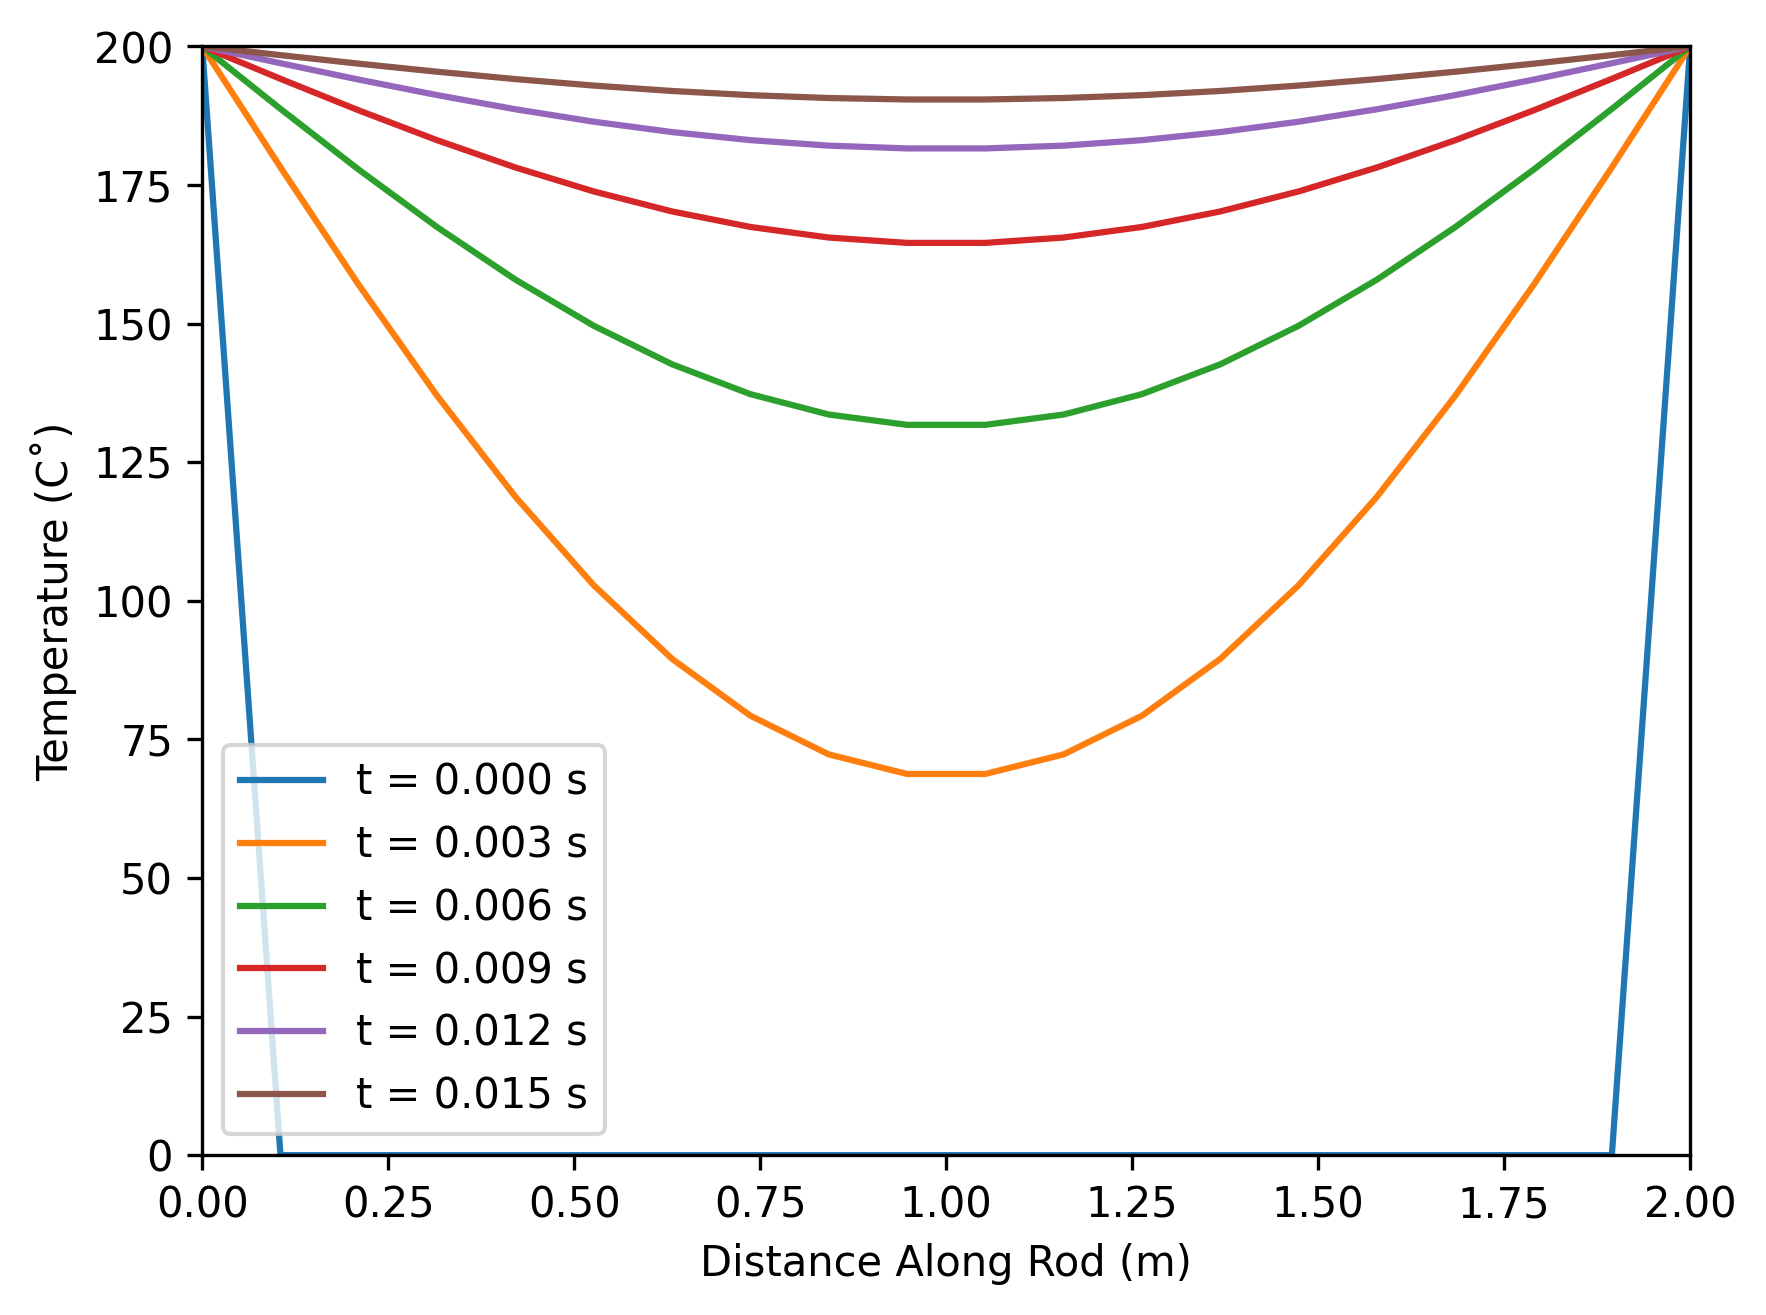
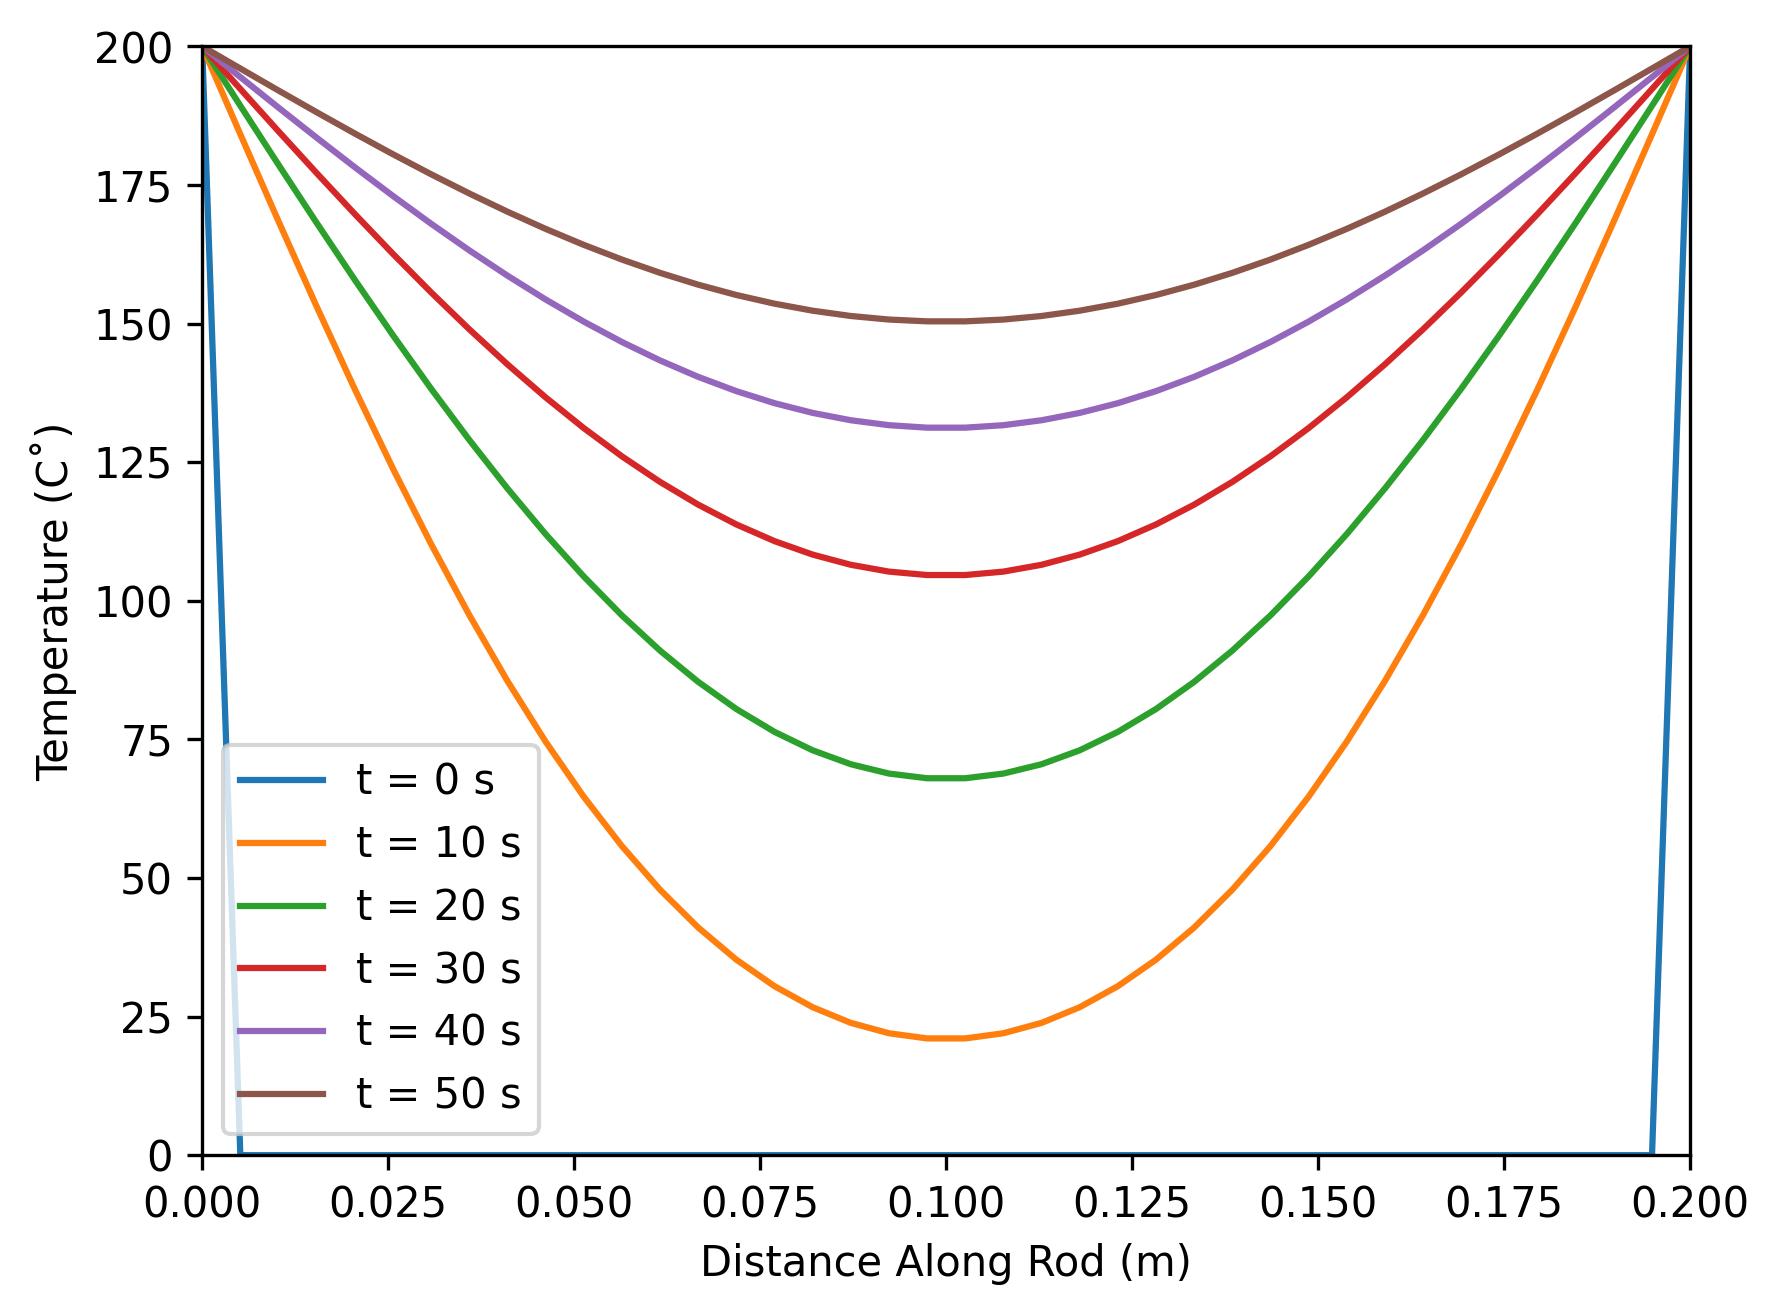
Adjust the constants and apply boundary conditions for 2D

diff --git a/app/implicit_2d.py b/app/implicit_2d.py
@@ -67,8 +67,9 @@ for t in range(1, t_size):
     u[t, 0, :] = Constants.TEMP_LEFT
     u[t, -1, :] = Constants.TEMP_RIGHT
     u[t, :, 0] = Constants.TEMP_LEFT
+    u[t, :, -1] = u[t, :, -2]
 
 # visualization
-Visualization.static_heatmap(u, x_vec, y_vec, 100, Constants.DT, precision=4, file_name="app/plot/implicit_2d")
-Visualization.dynamic_heatmap(u, x_vec, y_vec, t_vec, Constants.DT, precision=4)
+Visualization.static_heatmap(u, x_vec, y_vec, 500, Constants.DT, precision=1, file_name="app/plot/implicit_2d")
+Visualization.dynamic_heatmap(u, x_vec, y_vec, t_vec, Constants.DT, precision=1)
 # Time complexity O(t_size * (x_size * y_size)^ 1.5) because the sparse matrix solver is O(N ^ {3/2})

diff --git a/app/cn_2d.py b/app/cn_2d.py
@@ -70,8 +70,9 @@ for t in range(1, t_size):
     u[t, 0, :] = Constants.TEMP_LEFT
     u[t, -1, :] = Constants.TEMP_RIGHT
     u[t, :, 0] = Constants.TEMP_LEFT
+    u[t, :, -1] = u[t, :, -2]
 
 # visualization
-Visualization.static_heatmap(u, x_vec, y_vec, 100, Constants.DT, precision=4, file_name="app/plot/cn_2d")
-Visualization.dynamic_heatmap(u, x_vec, y_vec, t_vec, Constants.DT, precision=4)
+Visualization.static_heatmap(u, x_vec, y_vec, 500, Constants.DT, precision=1, file_name="app/plot/cn_2d")
+Visualization.dynamic_heatmap(u, x_vec, y_vec, t_vec, Constants.DT, precision=1)
 # Time complexity O(t_size * (x_size * y_size)^ 1.5) because the sparse matrix solver is O(N ^ {3/2})

diff --git a/app/constants.py b/app/constants.py
@@ -1,18 +1,18 @@
 class Constants:
-    # Thermal conductivity, in W / (m K)
-    # air = 0.026
-    # water = 0.592
-    # concrete = 0.92
-    # copper = 384.1
-    # aluminum alloy = 126.4
-    # iron = 80
-    K = 80
+    # Thermal diffusivity, in m^2 / s
+    # air = 2.6 e-8
+    # water = 5.92 e-7
+    # concrete = 9.2 e -7
+    # copper = 3.84 e-4
+    # aluminum alloy = 1.26 e-4
+    # iron = 8 e-5
+    K = 1.26e-4
     
-    LENGTH = 2
-    LENGTH_Y = 2
+    LENGTH = .2
+    LENGTH_Y = .2
     TEMP_LEFT = 200
     TEMP_RIGHT = 200
-    TOTAL_TIME = 0.5
-    DX = .1
-    DY = .1
-    DT = .00001
+    TOTAL_TIME = 60
+    DX = .005
+    DY = .005
+    DT = .01

diff --git a/app/explicit_2d.py b/app/explicit_2d.py
@@ -43,7 +43,7 @@ if r_x + r_y <= 0.5:
             u[t + 1, x, -1] = u[t + 1, x, -2]
 
     # visualization
-    Visualization.static_heatmap(u, x_vec, y_vec, 100, Constants.DT, precision=4, file_name="app/plot/explicit_2d")
-    Visualization.dynamic_heatmap(u, x_vec, y_vec, t_vec, Constants.DT, precision=4)
+    Visualization.static_heatmap(u, x_vec, y_vec, 500, Constants.DT, precision=1, file_name="app/plot/explicit_2d")
+    Visualization.dynamic_heatmap(u, x_vec, y_vec, t_vec, Constants.DT, precision=1)
     
 # Time complexity O(t_size * x_size * y_size)

diff --git a/app/explicit_1d.py b/app/explicit_1d.py
@@ -30,8 +30,8 @@ if r <= 0.5:
         for x in range(1, len(x_vec) - 1):
             u[t + 1, x] = r * (u[t, x + 1] - 2 * u[t, x] + u[t, x - 1]) + u[t, x]
 
-time_points = np.linspace(0, 0.015, 6)
-Visualization.plot_by_time(u, x_vec, Constants.DT, time_points, 3, file_name="app/plot/explicit_1d")
+time_points = np.linspace(0, 50, 6)
+Visualization.plot_by_time(u, x_vec, Constants.DT, time_points, 0, file_name="app/plot/explicit_1d")
 
 y_min = np.min(u)
 y_max = np.max(u)

diff --git a/app/implicit_1d.py b/app/implicit_1d.py
@@ -33,8 +33,8 @@ for t in range(1, t_size - 1):
     u[t, 0] = Constants.TEMP_LEFT
     u[t, -1] = Constants.TEMP_RIGHT
 
-time_points = np.linspace(0, 0.015, 6)
-Visualization.plot_by_time(u, x_vec, Constants.DT, time_points, precision=3, file_name="app/plot/implicit_1d")
+time_points = np.linspace(0, 50, 6)
+Visualization.plot_by_time(u, x_vec, Constants.DT, time_points, precision=0, file_name="app/plot/implicit_1d")
 
 y_min = np.min(u)
 y_max = np.max(u)

diff --git a/app/cn_1d.py b/app/cn_1d.py
@@ -44,8 +44,8 @@ for t in range(t_size - 1):
     u[t + 1, 0] = Constants.TEMP_LEFT
     u[t + 1, -1] = Constants.TEMP_RIGHT
             
-time_points = np.linspace(0, 0.015, 6)
-Visualization.plot_by_time(u, x_vec, Constants.DT, time_points, 3, file_name="app/plot/cn_1d")
+time_points = np.linspace(0, 50, 6)
+Visualization.plot_by_time(u, x_vec, Constants.DT, time_points, precision=0, file_name="app/plot/cn_1d")
 
 y_min = np.min(u)
 y_max = np.max(u)

diff --git a/summary.md b/summary.md
@@ -237,7 +237,7 @@ Similarly, we can also map this into a sparse matrix with size $ N_{x} N_{y} $ T
 $$
 A_1 u^{n+1} = A_2 u^n
 $$
-This system is more accurate and unconditionally stable. However, it's even more **unconditionally stable** than the implicit method.
+This system is more accurate and unconditionally stable. However, it's even more **computational expensive** than the implicit method.
 
 ### Summary of 2-D Methods
 - **Explicit Method**: Simple but conditionally stable, requiring small time steps to maintain stability.
